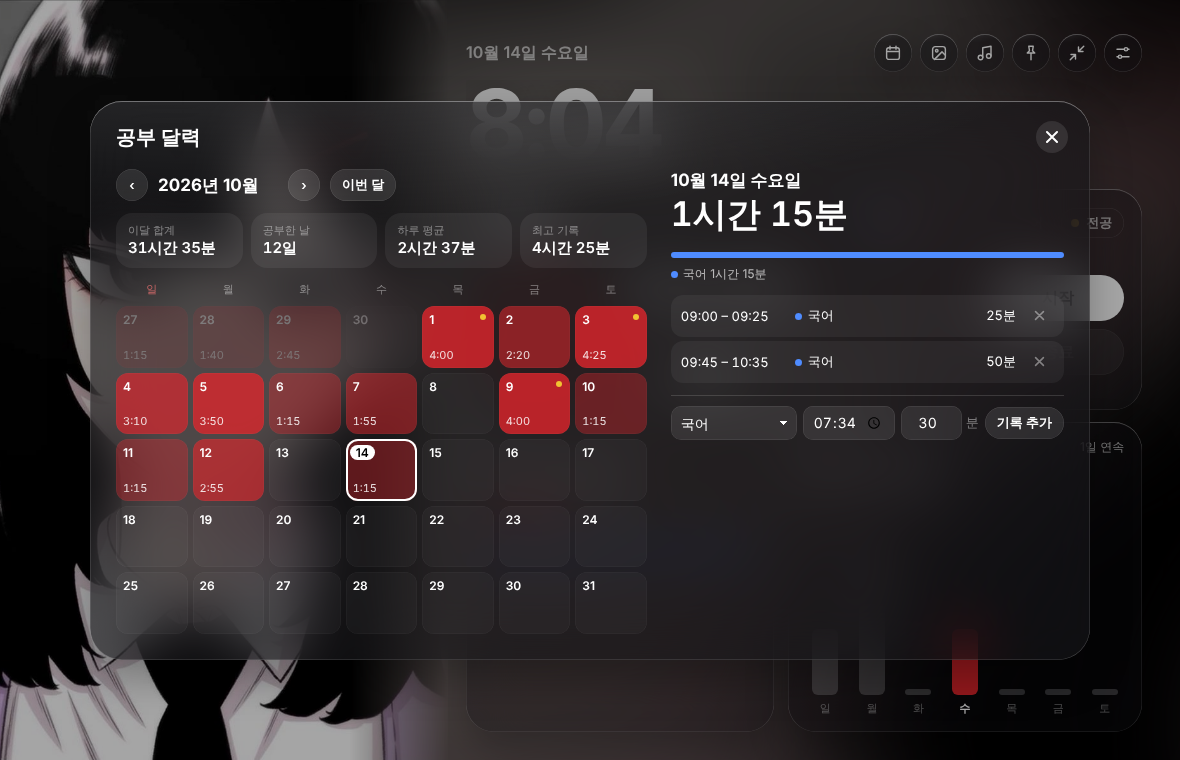
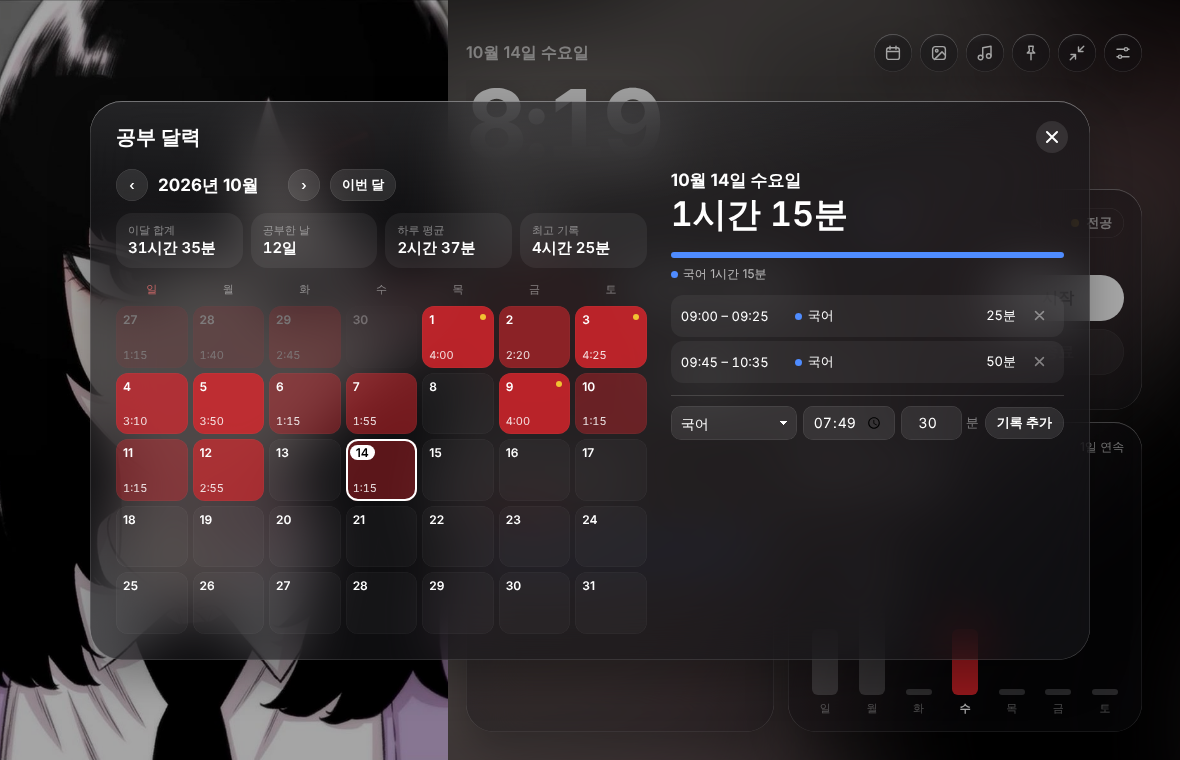
v2.0.3: 사진과 화면을 흐림 없이 깔끔하게 나누기
Claude-Session: https://claude.ai/code/session_01PJXJ3ooBNum81K4yWgLcHa

diff --git a/app/Resources/index.html b/app/Resources/index.html
@@ -53,16 +53,12 @@
   .dim { background: #000; opacity: var(--dim-amount, .15); }
 
   .art { position: relative; margin: 0; height: 100vh; overflow: hidden; }
-  .art img {
-    width: 100%; height: 100%; object-fit: cover; display: block;
-    -webkit-mask-image: linear-gradient(to right, #000 78%, transparent 100%);
-            mask-image: linear-gradient(to right, #000 78%, transparent 100%);
-  }
+  /* 사진과 오른쪽 화면을 깔끔하게 나눠요(흐리게 섞으면 밝은 사진에서 경계가 지저분해 보였어요) */
+  .art img { width: 100%; height: 100%; object-fit: cover; display: block; }
   .app[data-layout="wide"] .art img { visibility: hidden; }
   /* 위치 맞추기: 사진을 끌어서 보이는 부분 정하기 */
   .app.adjusting .art { cursor: grab; }
   .app.adjusting .art.dragging { cursor: grabbing; }
-  .app.adjusting .art img { -webkit-mask-image: none; mask-image: none; }
   .app.adjusting .art::after { content: ""; position: absolute; inset: 10px; border-radius: 22px; box-shadow: inset 0 0 0 2px rgba(255,255,255,.75); pointer-events: none; }
   .adjust-bar {
     position: absolute; left: 50%; bottom: 28px; transform: translateX(-50%); z-index: 3;

diff --git a/make.md b/make.md
@@ -426,7 +426,7 @@ state.active = { sessionStart, subject, checkAt: 저장한 시각, checkSec: 그
 
 | 비율 | `data-layout` | 모습 |
 |---|---|---|
-| 1.15 미만 (세로·정사각형) | `tall` | 왼쪽 칸에 사진. 칸 너비 = 창 높이 × 비율 (300px~창 너비 46%). 오른쪽 끝을 마스크로 흐리게. |
+| 모든 사진 | `tall` | 왼쪽 칸에 사진. 칸 너비는 `clamp(320px, 38vw, 560px)`로 고정, 사진은 `object-fit: cover`로 채우고 경계는 흐리지 않고 깔끔하게 나눠요. 보이는 부분은 **위치 맞추기**로 정한 `state.wallPos[id]`(없으면 `focus`). |
 | 1.15 이상 (가로) | `wide` | 사진을 화면 전체에 깔고, 오른쪽을 그라데이션으로 어둡게 |
 
 뒤에는 항상 같은 사진을 크게 흐린 층(`.bg-blur`)이 깔려 있어서, 사진과 빈 곳 사이가 자연스럽게 이어져요.
